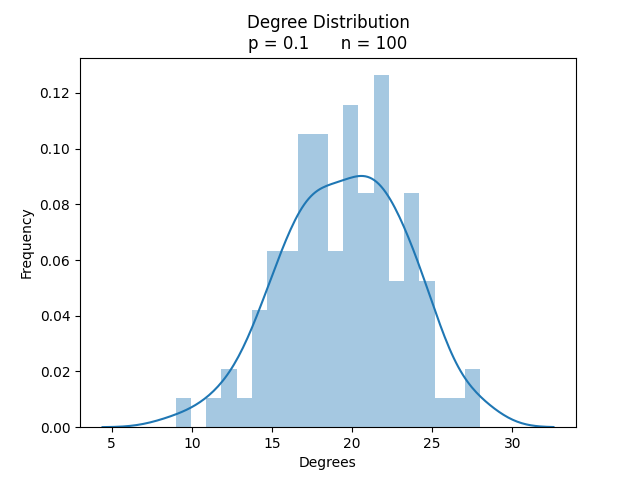
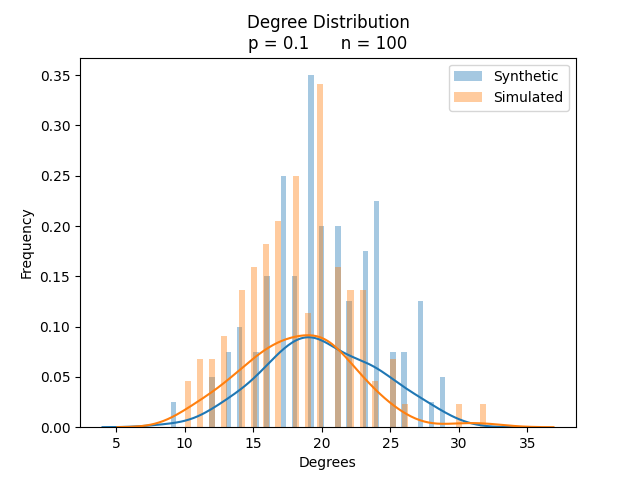
first 3 tasks done

diff --git a/HW4/ErdosGraph.py b/HW4/ErdosGraph.py
@@ -1,3 +1,4 @@
+from matplotlib.pyplot import sci
 import numpy as np
 from scipy.sparse import csr_matrix
 import math
@@ -5,10 +6,14 @@ import random
 import matplotlib.pyplot as plt
 import networkx as nx
 import seaborn as sb
+from scipy.stats import binom
+from collections import Counter
+from operator import itemgetter
 
 class Network:
-    def __init__(self, n=0, c=0, p=0, SELF_EDGES=False):
+    def __init__(self, n=0, c=0, p=0, nr_steps=0, SELF_EDGES=False):
         self.G = nx.Graph()
+        self.nr_steps = nr_steps
         self.p = p
         self.c = c
         self.n = n              # Nodes
@@ -49,11 +54,9 @@ class Network:
             for j in range(1, int(self.c / 2) + 1):
                 if (i + j) > self.n - 1:
                     i = (i + j) - self.n
-                    self.adj_matrix[i, i + j] = 1
-                    self.adj_matrix[i + j, i] = 1
+                    self.add_edge(i, i + j)
                 else:
-                    self.adj_matrix[i, i + j] = 1
-                    self.adj_matrix[i + j, i] = 1
+                    self.add_edge(i, i + j)
                     
         if self.SELF_EDGES:
             np.fill_diagonal(self.adj_matrix, 2)
@@ -76,24 +79,65 @@ class Network:
         for i in range(len(v1)):
             self.G.add_edge(v1[i], v2[i])
 
-    def plot_graph(self, CIRCULAR=False):
+    def plot_graph(self, CIRCULAR=False, STEP=False):
         plt.figure()
         
         if CIRCULAR:
             plt.title('p = ' + str(self.p) + '      c = ' + str(self.c) + '      n = ' + str(self.n) + '     m = ' + str(self.m))
             nx.draw_circular(self.G)
+        elif STEP:
+            plt.title('p = ' + str(self.p) + '      c = ' + str(self.c) + '      n = ' + str(self.n) + '     m = ' + str(self.m) + 
+            '\nNumber of steps: ' + str(self.nr_steps))
+            nx.draw(self.G)
         else:
             plt.title('p = ' + str(self.p) + '      n = ' + str(self.n) + '     m = ' + str(self.m))
             nx.draw(self.G)
+
     
     def plot_degree_dist(self):
         degrees = [self.G.degree(n) for n in self.G.nodes()]
         plt.figure()
+        synth_data = binom.rvs(n=self.n * 2, p=self.p, loc=0, size=self.n)
+        sb.distplot(synth_data, kde=True, bins=50, label='Synthetic')
+        sb.distplot(sorted(degrees, reverse=True), kde=True, bins=50, label='Simulated')
         plt.xlabel('Degrees')
         plt.ylabel('Frequency')
         plt.title('Degree Distribution' + '\np = ' + str(self.p) + '      n = ' + str(self.n))
-        sb.distplot(sorted(degrees, reverse=True), kde=True, bins=20)
-        
+        plt.legend()
+    
+    def plot_cum_ddist(self):
+        d_seq = [self.G.degree(n) for n in self.G.nodes()]
+        max_deg = max(d_seq)
+        k = np.linspace(0, max(d_seq),max(d_seq))
+        power_dist = 2 * self.c ** 2 * k ** (1 - 3 ** 3)
+
+        degrees = np.array(d_seq)
+        d_list = []
+        for i in range(max(degrees)):
+            d_list.append(np.sum(degrees == i))
+        d_list = np.flip(d_list)    
+        d_cdf = np.flip(np.cumsum(d_list))
+        plt.figure()
+        plt.loglog(k, power_dist, label='Synthetic')
+        plt.plot(k, d_cdf, linestyle='none', marker='.', label = 'Simulated')
+        plt.title('p = ' + str(self.p) + '      c = ' + str(self.c) + '      n = ' + str(self.n) + '     m = ' + str(self.m) + 
+            '\nNumber of steps: ' + str(self.nr_steps))
+        plt.legend()
+
+
+    def step(self):
+        for i in range(self.nr_steps):
+            (row, col) = (np.zeros(self.n), np.zeros(self.n + 1))
+            adj_prob = np.divide(np.sum(self.adj_matrix, axis=0), np.sum(self.adj_matrix))
+            possible_choices = np.where(adj_prob)
+            index = np.random.choice(possible_choices[0].tolist(), self.c, p=adj_prob.tolist())
+            for i in index:
+                row[i] = 1
+                col[i] = 1
+            self.adj_matrix = np.vstack((self.adj_matrix, row))
+            self.adj_matrix = np.column_stack((self.adj_matrix, col))
+            self.n += 1
+
 def task1():
     erdos = Network(n=100, p=0.1, SELF_EDGES=False)
     erdos.initialize_erdos()
@@ -110,6 +154,19 @@ def task2():
     wattStrog.plot_graph(CIRCULAR=True)
     plt.show()
 
+def task3():
+    alberBasi = Network(n=2, p=0.1, c=5, nr_steps=1000)
+    alberBasi.add_edge(0, 1)
+    alberBasi.step()
+    alberBasi.build_graph()
+    alberBasi.plot_graph(STEP=True)
+    alberBasi.plot_cum_ddist()
+    plt.show()
+
+#def task4():
+    
+
 if __name__ == "__main__":
     #task1()
     #task2()
+    task3()

diff --git a/test.py b/test.py
@@ -1,0 +1,43 @@
+import numpy as np
+import itertools
+import matplotlib.pyplot as plt
+import networkx as nx
+import math
+import scipy
+import seaborn as sns
+from scipy.stats import binom, powerlaw,norm
+
+sns.set()
+number_nodes = 100
+probability_edge = 0.25
+adjacency_matrix = np.zeros((number_nodes, number_nodes))
+index = list(itertools.combinations(range(number_nodes),2))
+
+for i in index:
+    random_number = np.random.random(1)
+    if random_number < probability_edge:
+        adjacency_matrix[i[0]][i[1]] = 1
+        adjacency_matrix[i[1]][i[0]] = 1
+
+rows, cols = np.where(adjacency_matrix == 1)    
+edges = zip(rows.tolist(), cols.tolist())        
+
+gr = nx.Graph()
+gr.add_edges_from(edges)
+plt.figure(3,figsize=(12,12)) 
+nx.draw_random(gr, node_size=200, font_size=10)
+plt.show()
+
+
+degrees = [gr.degree(n) for n in gr.nodes()]
+# The theoretical binomial distribution plot together with the actual distribution of degrees in the nertwork
+n = number_nodes
+p = probability_edge
+data_binom = binom.rvs(n,p,loc=0,size=number_nodes)
+
+ax=sns.distplot(data_binom, kde=True, bins=20,color='teal', label ='Theoretical')
+ax=sns.distplot(degrees,kde=True, bins=20, color = 'red',label = 'Degrees')#,hist_kws={"linewidth": 25,'alpha':1})
+ax.set(xlabel='Degrees', ylabel='Frequency')
+plt.legend()
+
+plt.show()
